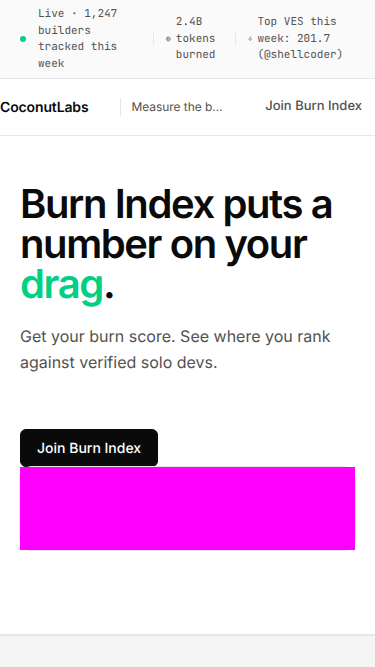
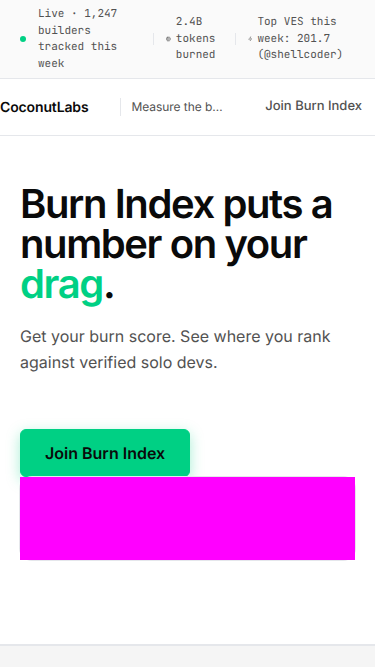
feat(hero): B.1 CTA redesign — green primary + XL size (#23)
* feat(hero): B.1 CTA redesign — green primary, XL size, lift hover

Hero CTA를 plan B.1 lock에 따라 재디자인:
- .btn-primary global: 검정 → young-coconut #00D084 배경 + 검정 텍스트 + 드롭섀도
- .btn-xl size variant 신규 (48px height, 24px padding, 16px font, 600 weight)
- Hero "Join Burn Index" 버튼 size lg → xl
- ButtonProps.size union: "lg"|"sm" → "xl"|"lg"|"sm"

검증:
- typecheck ✅ / lint ✅ / vitest 267/267 ✅
- DESIGN.md lint error 0 ✅
- contrast 9.76:1 PASS AA+AAA Normal
- Codex review: HIGH #1 .btn-primary global scope — 디자인 시스템 표준 (primary token = primary class 통일)으로 plan 준수, 폼 submit 5개도 동일 green 적용

* chore(visual): rebase baseline for B.1 CTA redesign

Changed region(s): [[0.0293, 0.6297, 0.968, 0.7196], [0.0293, 0.8096, 0.968, 0.8396]]

diff --git a/app/globals.css b/app/globals.css
@@ -235,13 +235,14 @@ button { font: inherit; cursor: pointer; }
 .btn:active { transform: translateY(0.5px); }
 
 .btn-primary {
-  background: #0A0A0A;
-  color: #FFFFFF;
-  border-color: #0A0A0A;
-  box-shadow: none;
+  background: var(--young-coconut, #00D084);
+  color: #0A0A0A;
+  border-color: var(--young-coconut, #00D084);
+  box-shadow: 0 4px 14px rgba(0,208,132,0.35);
+  transition: transform .15s, box-shadow .2s;
 }
-.btn-primary:hover { background: #1A1A1A; }
-.btn-primary:active { background: #000; }
+.btn-primary:hover { transform: translateY(-1px); box-shadow: 0 6px 20px rgba(0,208,132,0.45); }
+.btn-primary:active { transform: translateY(0); }
 
 .btn-secondary {
   background: #FFFFFF;
@@ -265,6 +266,7 @@ button { font: inherit; cursor: pointer; }
 }
 .btn-link:hover { color: var(--young-coconut-dark); }
 
+.btn-xl { height: 48px; padding: 0 24px; font-size: 16px; font-weight: 600; }
 .btn-lg { height: 38px; padding: 0 16px; font-size: 14px; }
 .btn-sm { height: 28px; padding: 0 10px; font-size: 12px; }
 

diff --git a/components/primitives/index.tsx b/components/primitives/index.tsx
@@ -136,7 +136,7 @@ export function Icon({ name, size = 16, className = "" }: IconProps) {
 
 interface ButtonProps extends React.ButtonHTMLAttributes<HTMLButtonElement> {
   variant?: "primary" | "secondary" | "ghost" | "link";
-  size?: "lg" | "sm";
+  size?: "xl" | "lg" | "sm";
   children: React.ReactNode;
 }
 
@@ -152,7 +152,7 @@ export function Button({
     : variant === "secondary" ? "btn-secondary"
     : variant === "ghost" ? "btn-ghost"
     : "btn-link";
-  const s = size === "lg" ? "btn-lg" : "";
+  const s = size === "xl" ? "btn-xl" : size === "lg" ? "btn-lg" : "";
   return (
     <button className={`${base} ${v} ${s} ${className}`.trim()} {...props}>
       {children}

diff --git a/components/Hero.tsx b/components/Hero.tsx
@@ -126,7 +126,7 @@ export function Hero({ onJoin, onChallenge }: HeroProps) {
             <span className="hero-chip">+ more</span>
           </div>
           <div className="hero-actions" data-testid="hero-cta-group">
-            <Button variant="primary" size="lg" onClick={onJoin} data-testid="hero-cta-primary">
+            <Button variant="primary" size="xl" onClick={onJoin} data-testid="hero-cta-primary">
               Join Burn Index
             </Button>
             {SHOW_LEGACY && (